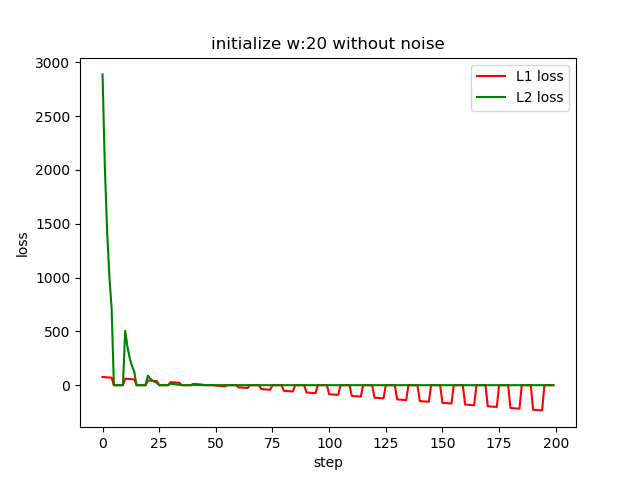
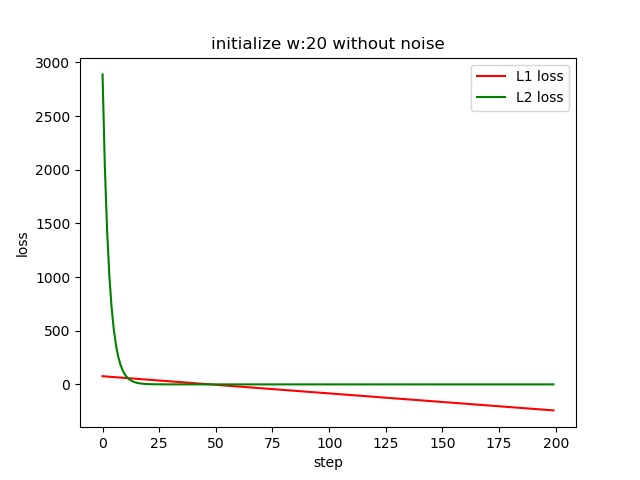
update the results

Changed region(s): [[0.1562, 0.6562, 0.875, 0.875], [0.0625, 0.6562, 0.0938, 0.7188], [0.0938, 0.7812, 0.125, 0.8125]]

diff --git a/abs_l1_l2_loss.py b/abs_l1_l2_loss.py
@@ -22,54 +22,67 @@ else:
     y = 1.0*x
 def loss(y_hat, y, loss='abs_L1'):
     if loss=='abs_L1':
-        print('abs_L1 loss')
+        # print('abs_L1 loss')
         return  np.sum(y_hat - y)
     elif loss == 'L2':
-        print('L2 loss')
+        #print('L2 loss')
         return np.sum(np.square(y_hat-y))
 
-print(x)
-print(y)
-epoches = 200
-batch_size = 2
+#print(x)
+#print(y)
+epoches = 2000
+batch_size = 4
 batch_start_idx = list(range(0, N, batch_size))
 
 abs_L1_losses, l2_losses = [], []
 w_abs_L1_loss, w_l2_loss = [], []
 # set learning rate as 1.0
-lr = 0.001
-
+init_lr = 0.01
+decay = 1/2000
 for loss_type in ['abs_L1', 'L2']:
     w = INIT_w 
+    iterations = 1
+    lr = init_lr 
+    lr_s = []
     for epoch in range(epoches):
         for batch_i in batch_start_idx:
+            iterations += 1
+            lr = init_lr*(1. / (1. + decay * iterations))
+            if iterations==2000:print(f"lr {lr}, iterations {iterations}, decay {decay}")
+            lr_s.append(lr)
             this_x, this_y = x[batch_i:batch_i+batch_size], y[batch_i:batch_i+batch_size]
             y_hat = w*this_x
             L = loss(y_hat, this_y, loss_type)
             if loss_type == 'abs_L1':
                 abs_L1_losses.append(abs(L))
-                print(f"{loss_type}, {L}")
+                # print(f"{loss_type}, {L}")
                 # L = y_hat -y , dL/dy_hat = 1
                 # dy_hat/dw = x
                 # dL/dw = Loss *(1)*(x)
                 gradient = np.sum(x)
-                print(gradient)
+                #print(gradient)
                 if L<0:gradient = -gradient
                 w -= lr*gradient
                 w_abs_L1_loss.append(w)
             elif loss_type == 'L2':
                 l2_losses.append(L)
-                print(f"{loss_type}, {L}")
+                #print(f"{loss_type}, {L}")
                 # L = (y_hat -y)**2 , dL/dy_hat = 2(y_hat - y)
                 # dy_hat/dw = x
                 # dL/dw = Loss *(2*(y_hat-y))*(x)
                 gradient = np.sum(2*(y_hat-this_y)*this_x)
                 w -= lr*gradient
                 w_l2_loss.append(w)
-print(abs_L1_losses)
-print(l2_losses)
-print(w_abs_L1_loss)
-print(w_l2_loss)
+    plt.plot(range(len(lr_s)), lr_s, c = 'r')
+    plt.xlabel('iteration')
+    plt.ylabel('learning rate')
+    plt.savefig('learning_rate.png')
+    plt.show()
+    plt.close()
+#print(abs_L1_losses)
+#print(l2_losses)
+#print(w_abs_L1_loss)
+#print(w_l2_loss)
 plt.plot(range(len(abs_L1_losses)), abs_L1_losses, c = 'r', label='abs_L1 loss')
 plt.plot(range(len(l2_losses)), l2_losses, c = 'g', label='L2 loss')
 plt.xlabel('step')
@@ -95,7 +108,6 @@ else:
     plt.title('initialize w:'+str(INIT_w)+' without noise')
 plt.legend(loc='best')
 if add_noise:
-    plt.savefig('w_abs_L1_l2_with_noise.png')
     plt.savefig('w_abs_L1_l2_with_noise with sigma = '+str(sigma)+'.png')
 else:
     plt.savefig('w_abs_L1_l2_without_noise.png')

diff --git a/l1_loss_l2_loss.py b/l1_loss_l2_loss.py
@@ -13,7 +13,7 @@ N = 20
 INIT_w = 20
 # our target w is 1.0
 
-add_noise = True
+add_noise = False
 x = 2*np.ones((N,))
 if add_noise:
     z = np.random.normal(0, 0.05, N)
